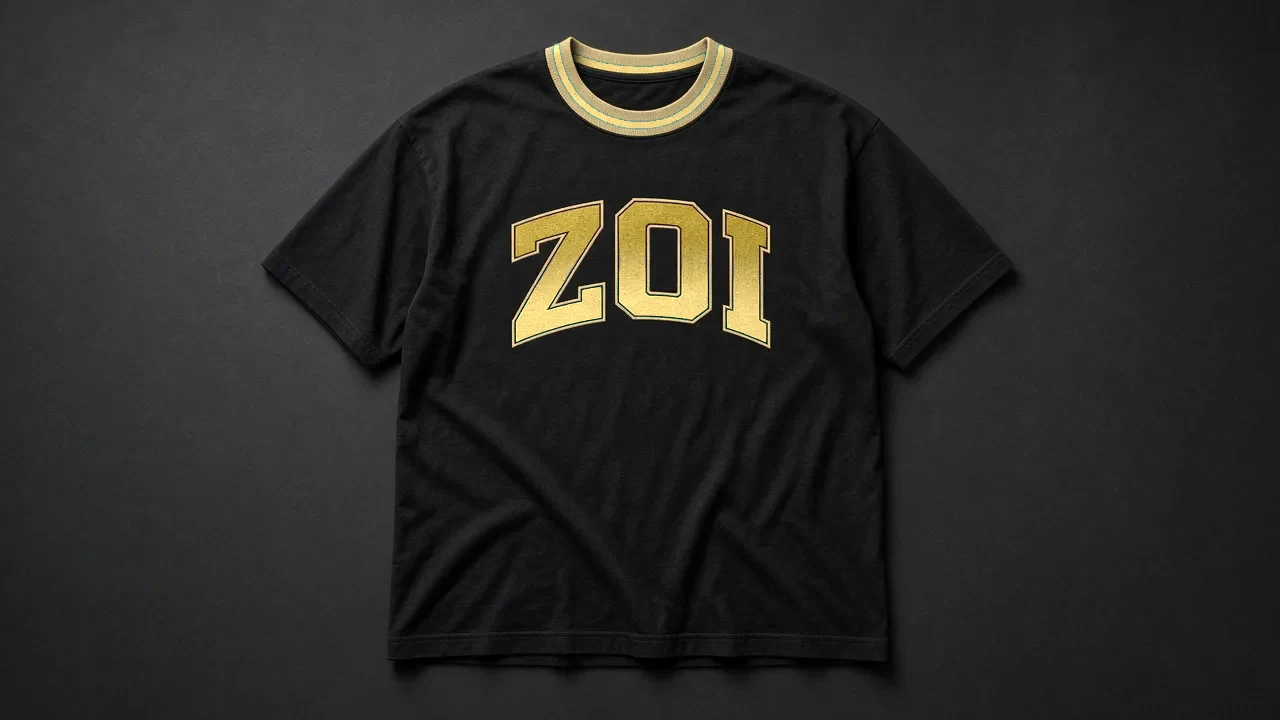
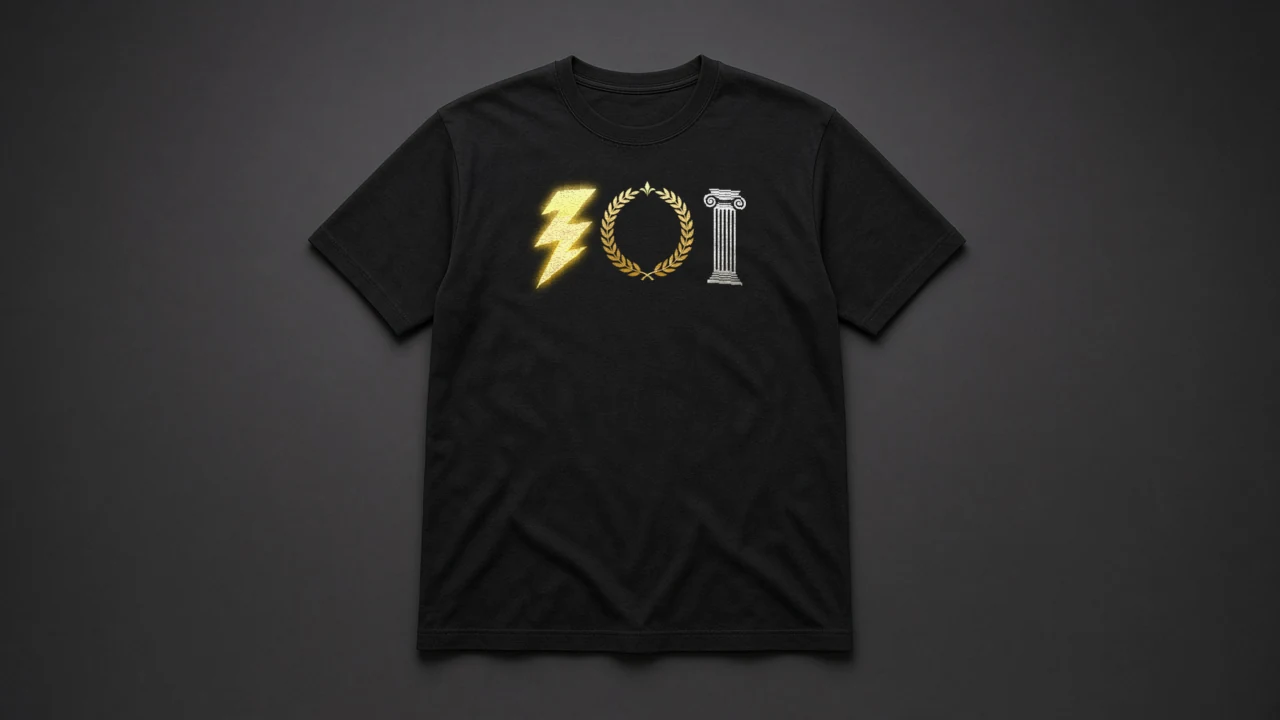
Shop v7: real ZOI wordmark on jersey, tee, long sleeve, letterman, hoodie (enlarged) and iced pendant

Changed region(s): [[0.1875, 0.0, 0.8125, 0.9778], [0.375, 0.2444, 0.625, 0.4889]]

diff --git a/public/shop.html b/public/shop.html
@@ -5,34 +5,34 @@
 <title>Shop — ZOI</title>
 <meta name="description" content="Official ZOI merch — jerseys, hoodies, caps and more. Coming soon.">
 <meta name="theme-color" content="#050506">
-<link rel="icon" href="favicon.ico" sizes="any"><link rel="icon" type="image/png" href="favicon-32.png"><link rel="apple-touch-icon" href="assets/apple-touch-icon.png?v=6">
+<link rel="icon" href="favicon.ico" sizes="any"><link rel="icon" type="image/png" href="favicon-32.png"><link rel="apple-touch-icon" href="assets/apple-touch-icon.png?v=7">
 <link rel="canonical" href="https://zoisports.com/shop">
-<link rel="stylesheet" href="styles.css?v=6">
+<link rel="stylesheet" href="styles.css?v=7">
 </head>
 <body>
-<header class="nav"><a href="/" class="brand"><img src="assets/zoi-icon.png?v=6" alt="" width="36" height="36">ZOI</a>
+<header class="nav"><a href="/" class="brand"><img src="assets/zoi-icon.png?v=7" alt="" width="36" height="36">ZOI</a>
 <button class="menu" aria-label="Menu" aria-expanded="false">☰</button>
 <nav><a href="/#about">About</a><a href="/#roster">Roster</a><a href="/#tryouts">Tryouts</a><a href="/#events">Events</a><a href="/#socials">Socials</a><a href="/shop">Shop</a></nav></header>
 <main id="top">
 <section class="shop-hero"><span class="est">EST. 2026</span><h2>The ZOI Shop</h2><p class="tag">Zero builds. All life. Official merch is on the way.</p></section>
 <div class="stripes" aria-hidden="true"></div>
 <section><div class="cards three products">
- <div class="card product flagship"><img src="/assets/shop/letterman.webp?v=6" alt="ZOI Letterman Jacket mockup" width="1400" height="788"><div class="info"><span class="badge">Flagship</span><h3>ZOI Letterman Jacket</h3><p>The iconic piece. Black wool body, black leather sleeves, white-and-gold striped rib collar, cuffs and waistband, snap front, and a chenille ZOI varsity letter patch on the chest.</p><p class="price">Price TBA</p><button class="btn" type="button" disabled>Coming soon</button></div></div>
- <div class="card product"><img src="/assets/shop/jersey.webp?v=6" alt="ZOI Pro Jersey mockup" width="1400" height="788" loading="lazy"><h3>ZOI Pro Jersey</h3><p>The match-day kit. Black mesh jersey with arched gold ZOI varsity lettering and gold-and-white sleeve trim.</p><p class="price">Price TBA</p><button class="btn" type="button" disabled>Coming soon</button></div>
- <div class="card product"><img src="/assets/shop/hoodie.webp?v=6" alt="Varsity Hoodie mockup" width="1400" height="788" loading="lazy"><h3>Varsity Hoodie</h3><p>Heavyweight black hoodie with the ZOI crest wordmark across the chest: gold bolt, gold laurel, marble column.</p><p class="price">Price TBA</p><button class="btn" type="button" disabled>Coming soon</button></div>
- <div class="card product"><img src="/assets/shop/tee.webp?v=6" alt="Varsity Tee mockup" width="1400" height="788" loading="lazy"><h3>Varsity Tee</h3><p>Black tee with arched gold ZOI varsity lettering and a gold-and-white striped collar.</p><p class="price">Price TBA</p><button class="btn" type="button" disabled>Coming soon</button></div>
- <div class="card product"><img src="/assets/shop/longsleeve.webp?v=6" alt="ZOI Varsity Long Sleeve mockup" width="1400" height="788" loading="lazy"><h3>ZOI Varsity Long Sleeve</h3><p>Black long sleeve with small ZOI lettering on the chest and gold ZOI running down the sleeve.</p><p class="price">Price TBA</p><button class="btn" type="button" disabled>Coming soon</button></div>
- <div class="card product"><img src="/assets/shop/cap.webp?v=6" alt="Crest Cap mockup" width="1400" height="788" loading="lazy"><h3>Crest Cap</h3><p>Structured black cap with a curved brim, raised gold crest embroidery: gold bolt, gold laurel, marble column and an adjustable back strap.</p><p class="price">Price TBA</p><button class="btn" type="button" disabled>Coming soon</button></div>
- <div class="card product"><img src="/assets/shop/mousepad.webp?v=6" alt="Desk Mousepad mockup" width="1400" height="788" loading="lazy"><h3>Desk Mousepad</h3><p>Extended black desk mat with the gold crest (gold bolt, gold laurel, marble column) in the corner.</p><p class="price">Price TBA</p><button class="btn" type="button" disabled>Coming soon</button></div>
- <div class="card product"><img src="/assets/shop/tumbler.webp?v=6" alt="ZOI Insulated Tumbler mockup" width="1400" height="788" loading="lazy"><h3>ZOI Insulated Tumbler</h3><p>Matte black insulated tumbler with handle and straw lid, gold bolt, gold laurel and marble column crest on the front.</p><p class="price">Price TBA</p><button class="btn" type="button" disabled>Coming soon</button></div>
- <div class="card product"><img src="/assets/shop/coin.webp?v=6" alt="ZOI Crest Coin mockup" width="1400" height="788" loading="lazy"><h3>ZOI Crest Coin</h3><p>Heavyweight antique-silver flip coin with the column-and-laurel crest in relief. Built for queue time.</p><p class="price">Price TBA</p><button class="btn" type="button" disabled>Coming soon</button></div>
- <div class="card product"><img src="/assets/shop/stickers.webp?v=6" alt="Sticker Pack mockup" width="1400" height="788" loading="lazy"><h3>Sticker Pack</h3><p>Holographic die-cut sticker set: crest, laurel and lightning-bolt designs.</p><p class="price">Price TBA</p><button class="btn" type="button" disabled>Coming soon</button></div>
+ <div class="card product flagship"><img src="/assets/shop/letterman.webp?v=7" alt="ZOI Letterman Jacket mockup" width="1400" height="788"><div class="info"><span class="badge">Flagship</span><h3>ZOI Letterman Jacket</h3><p>The iconic piece. Black wool body, black leather sleeves, white-and-gold striped rib collar, cuffs and waistband, snap front, and a chenille ZOI logo patch on the left chest: gold bolt, gold laurel, marble column.</p><p class="price">Price TBA</p><button class="btn" type="button" disabled>Coming soon</button></div></div>
+ <div class="card product"><img src="/assets/shop/jersey.webp?v=7" alt="ZOI Pro Jersey mockup" width="1400" height="788" loading="lazy"><h3>ZOI Pro Jersey</h3><p>The match-day kit. Black mesh jersey with the ZOI logo across the chest (gold bolt, gold laurel, marble column) and gold-and-white V-neck and sleeve trim.</p><p class="price">Price TBA</p><button class="btn" type="button" disabled>Coming soon</button></div>
+ <div class="card product"><img src="/assets/shop/hoodie.webp?v=7" alt="Varsity Hoodie mockup" width="1400" height="788" loading="lazy"><h3>Varsity Hoodie</h3><p>Heavyweight black hoodie with the ZOI crest wordmark across the chest: gold bolt, gold laurel, marble column.</p><p class="price">Price TBA</p><button class="btn" type="button" disabled>Coming soon</button></div>
+ <div class="card product"><img src="/assets/shop/tee.webp?v=7" alt="Varsity Tee mockup" width="1400" height="788" loading="lazy"><h3>Varsity Tee</h3><p>Black tee with the ZOI logo printed large across the chest: gold bolt, gold laurel, marble column.</p><p class="price">Price TBA</p><button class="btn" type="button" disabled>Coming soon</button></div>
+ <div class="card product"><img src="/assets/shop/longsleeve.webp?v=7" alt="ZOI Varsity Long Sleeve mockup" width="1400" height="788" loading="lazy"><h3>ZOI Varsity Long Sleeve</h3><p>Black long sleeve with the ZOI bolt, laurel and column logo on the chest and a vertical logo print running down the left sleeve.</p><p class="price">Price TBA</p><button class="btn" type="button" disabled>Coming soon</button></div>
+ <div class="card product"><img src="/assets/shop/cap.webp?v=7" alt="Crest Cap mockup" width="1400" height="788" loading="lazy"><h3>Crest Cap</h3><p>Structured black cap with a curved brim, raised gold crest embroidery: gold bolt, gold laurel, marble column and an adjustable back strap.</p><p class="price">Price TBA</p><button class="btn" type="button" disabled>Coming soon</button></div>
+ <div class="card product"><img src="/assets/shop/mousepad.webp?v=7" alt="Desk Mousepad mockup" width="1400" height="788" loading="lazy"><h3>Desk Mousepad</h3><p>Extended black desk mat with the gold crest (gold bolt, gold laurel, marble column) in the corner.</p><p class="price">Price TBA</p><button class="btn" type="button" disabled>Coming soon</button></div>
+ <div class="card product"><img src="/assets/shop/tumbler.webp?v=7" alt="ZOI Insulated Tumbler mockup" width="1400" height="788" loading="lazy"><h3>ZOI Insulated Tumbler</h3><p>Matte black insulated tumbler with handle and straw lid, gold bolt, gold laurel and marble column crest on the front.</p><p class="price">Price TBA</p><button class="btn" type="button" disabled>Coming soon</button></div>
+ <div class="card product"><img src="/assets/shop/coin.webp?v=7" alt="ZOI Crest Coin mockup" width="1400" height="788" loading="lazy"><h3>ZOI Crest Coin</h3><p>Heavyweight antique-silver flip coin with the column-and-laurel crest in relief. Built for queue time.</p><p class="price">Price TBA</p><button class="btn" type="button" disabled>Coming soon</button></div>
+ <div class="card product"><img src="/assets/shop/stickers.webp?v=7" alt="Sticker Pack mockup" width="1400" height="788" loading="lazy"><h3>Sticker Pack</h3><p>Holographic die-cut sticker set: crest, laurel and lightning-bolt designs.</p><p class="price">Price TBA</p><button class="btn" type="button" disabled>Coming soon</button></div>
 </div>
-<div class="cards"><div class="card product flagship reverse"><img src="/assets/shop/pendant-crest.webp?v=6" alt="ZOI Iced Pendant mockup" width="1400" height="788" loading="lazy"><div class="info"><span class="badge">Featured</span><h3>ZOI Iced Pendant</h3><p>ZOI in collegiate block letters, pavé-set with white stones in white gold, on a slim rope chain.</p><p class="price">Price TBA</p><button class="btn" type="button" disabled>Coming soon</button></div></div></div>
+<div class="cards"><div class="card product flagship reverse"><img src="/assets/shop/pendant-crest.webp?v=7" alt="ZOI Iced Pendant mockup" width="1400" height="788" loading="lazy"><div class="info"><span class="badge">Featured</span><h3>ZOI Iced Pendant</h3><p>Iced white gold ZOI logo pendant (bolt, laurel and column, pavé-set with white stones) on a rope chain.</p><p class="price">Price TBA</p><button class="btn" type="button" disabled>Coming soon</button></div></div></div>
 <p class="notify">Get notified when the shop drops: email <a href="mailto:hello@zoisports.com?subject=Notify%20me%20when%20the%20ZOI%20shop%20drops">hello@zoisports.com</a>.</p>
 <p class="small muted">Images are design mockups; final products may differ.</p></section>
 </main>
-<footer><div class="stripes" aria-hidden="true"></div><img src="assets/zoi-icon.png?v=6" alt="" width="48" height="48"><p>ZOI · ζωή · life</p><p class="small">Contact: <a href="mailto:hello@zoisports.com">hello@zoisports.com</a></p><p class="small">© 2026 ZOI. All rights reserved. · <a href="/privacy">Privacy</a> · <a href="/terms">Terms</a></p><p class="small">ZOI is not affiliated with or endorsed by Epic Games. Fortnite is a trademark of Epic Games, Inc.</p></footer>
+<footer><div class="stripes" aria-hidden="true"></div><img src="assets/zoi-icon.png?v=7" alt="" width="48" height="48"><p>ZOI · ζωή · life</p><p class="small">Contact: <a href="mailto:hello@zoisports.com">hello@zoisports.com</a></p><p class="small">© 2026 ZOI. All rights reserved. · <a href="/privacy">Privacy</a> · <a href="/terms">Terms</a></p><p class="small">ZOI is not affiliated with or endorsed by Epic Games. Fortnite is a trademark of Epic Games, Inc.</p></footer>
 <script src="main.js"></script>
 </body>
 </html>

diff --git a/public/index.html b/public/index.html
@@ -5,20 +5,20 @@
 <title>ZOI — Competitive Fortnite Zero Build</title>
 <meta name="description" content="ZOI (zo-EE, Greek ζωή, 'life') is a new competitive Fortnite Zero Build esports organization. Tryouts open.">
 <meta name="theme-color" content="#050506">
-<link rel="icon" href="favicon.ico" sizes="any"><link rel="icon" type="image/png" href="favicon-32.png"><link rel="apple-touch-icon" href="assets/apple-touch-icon.png?v=6">
-<meta property="og:title" content="ZOI — Life in Zero Build"><meta property="og:description" content="New competitive Fortnite Zero Build org. Tryouts open."><link rel="canonical" href="https://zoisports.com/"><meta property="og:url" content="https://zoisports.com/"><meta property="og:image" content="https://zoisports.com/assets/og.jpg?v=6"><meta property="og:type" content="website"><meta name="twitter:card" content="summary_large_image">
+<link rel="icon" href="favicon.ico" sizes="any"><link rel="icon" type="image/png" href="favicon-32.png"><link rel="apple-touch-icon" href="assets/apple-touch-icon.png?v=7">
+<meta property="og:title" content="ZOI — Life in Zero Build"><meta property="og:description" content="New competitive Fortnite Zero Build org. Tryouts open."><link rel="canonical" href="https://zoisports.com/"><meta property="og:url" content="https://zoisports.com/"><meta property="og:image" content="https://zoisports.com/assets/og.jpg?v=7"><meta property="og:type" content="website"><meta name="twitter:card" content="summary_large_image">
 <link rel="preload" href="assets/fonts/Graduate-Regular.ttf" as="font" type="font/ttf" crossorigin>
-<link rel="stylesheet" href="styles.css?v=6">
+<link rel="stylesheet" href="styles.css?v=7">
 </head>
 <body>
-<header class="nav"><a href="#top" class="brand"><img src="assets/zoi-icon.png?v=6" alt="" width="36" height="36">ZOI</a>
+<header class="nav"><a href="#top" class="brand"><img src="assets/zoi-icon.png?v=7" alt="" width="36" height="36">ZOI</a>
 <button class="menu" aria-label="Menu" aria-expanded="false">☰</button>
 <nav><a href="#about">About</a><a href="#roster">Roster</a><a href="#tryouts">Tryouts</a><a href="#events">Events</a><a href="#socials">Socials</a><a href="/shop">Shop</a></nav></header>
 <main id="top">
 <section class="hero">
  <div class="crest">
   <svg class="shield" viewBox="0 0 300 340" aria-hidden="true"><path d="M8 8H292V170C292 260 220 320 150 332C80 320 8 260 8 170Z" fill="#0a0a0b" stroke="#e6d3a0" stroke-width="5"/><path d="M22 22H278V168C278 248 214 302 150 314C86 302 22 248 22 168Z" fill="none" stroke="#e6d3a0" stroke-width="1.5" opacity=".35"/></svg>
-  <img class="logo" src="assets/zoi-icon.png?v=6" alt="ZOI logo: lightning-bolt Z, laurel O, Ionic column I" width="260" height="260">
+  <img class="logo" src="assets/zoi-icon.png?v=7" alt="ZOI logo: lightning-bolt Z, laurel O, Ionic column I" width="260" height="260">
   <span class="est">EST. 2026</span>
  </div>
  <h1>ZOI <span class="pron">— zo-EE</span></h1>
@@ -39,7 +39,7 @@
 <div class="stripes" aria-hidden="true"></div>
 <section id="roster"><h2>Roster</h2>
  <div class="cards">
-  <div class="card player"><img src="assets/zoi-icon.png?v=6" alt="" width="72" height="72"><h3>ZoiKneczi</h3><p class="role">Founder &amp; Owner</p></div>
+  <div class="card player"><img src="assets/zoi-icon.png?v=7" alt="" width="72" height="72"><h3>ZoiKneczi</h3><p class="role">Founder &amp; Owner</p></div>
   <div class="card player open"><div class="slot">+</div><h3>Open spot</h3><p class="role">Zero Build player</p></div>
   <div class="card player open"><div class="slot">+</div><h3>Open spot</h3><p class="role">Zero Build player</p></div>
   <div class="card player open"><div class="slot">+</div><h3>Open spot</h3><p class="role">Content creator</p></div>
@@ -78,7 +78,7 @@
 </section>
 <div class="stripes" aria-hidden="true"></div>
 <section id="shop"><h2>Shop</h2><p>Official ZOI merch is coming — a flagship letterman jacket, jerseys, hoodies and more.</p>
- <div class="teaser"><img src="/assets/shop/jersey.webp?v=6" alt="ZOI Pro Jersey mockup" width="1400" height="788" loading="lazy"><img src="/assets/shop/hoodie.webp?v=6" alt="Crest Hoodie mockup" width="1400" height="788" loading="lazy"><img src="/assets/shop/letterman.webp?v=6" alt="ZOI Letterman Jacket mockup" width="1400" height="788" loading="lazy"></div>
+ <div class="teaser"><img src="/assets/shop/jersey.webp?v=7" alt="ZOI Pro Jersey mockup" width="1400" height="788" loading="lazy"><img src="/assets/shop/hoodie.webp?v=7" alt="Crest Hoodie mockup" width="1400" height="788" loading="lazy"><img src="/assets/shop/letterman.webp?v=7" alt="ZOI Letterman Jacket mockup" width="1400" height="788" loading="lazy"></div>
  <p><a class="btn ghost" href="/shop">Preview the shop</a></p></section>
 <div class="stripes" aria-hidden="true"></div>
 <section id="socials"><h2>Socials</h2><p>Find us everywhere as <strong>@zoi_sports</strong> — channels launching soon.</p>
@@ -87,6 +87,6 @@
  </div>
 </section>
 </main>
-<footer><div class="stripes" aria-hidden="true"></div><img src="assets/zoi-icon.png?v=6" alt="" width="48" height="48"><p>ZOI · ζωή · life</p><p class="small">Contact: <a href="mailto:hello@zoisports.com">hello@zoisports.com</a></p><p class="small">© 2026 ZOI. All rights reserved. · <a href="/privacy">Privacy</a> · <a href="/terms">Terms</a></p><p class="small">ZOI is not affiliated with or endorsed by Epic Games. Fortnite is a trademark of Epic Games, Inc.</p></footer>
+<footer><div class="stripes" aria-hidden="true"></div><img src="assets/zoi-icon.png?v=7" alt="" width="48" height="48"><p>ZOI · ζωή · life</p><p class="small">Contact: <a href="mailto:hello@zoisports.com">hello@zoisports.com</a></p><p class="small">© 2026 ZOI. All rights reserved. · <a href="/privacy">Privacy</a> · <a href="/terms">Terms</a></p><p class="small">ZOI is not affiliated with or endorsed by Epic Games. Fortnite is a trademark of Epic Games, Inc.</p></footer>
 <script src="main.js"></script>
 </body></html>
